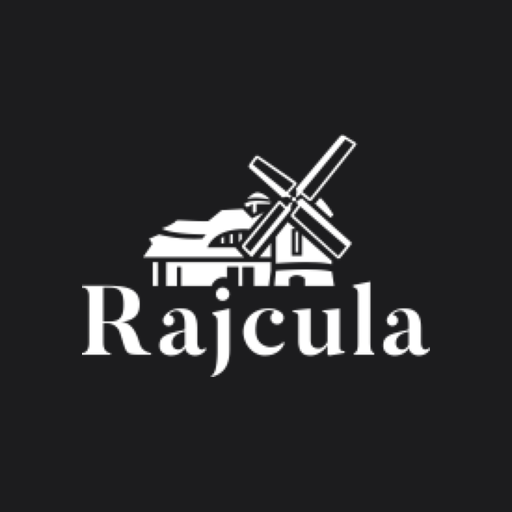
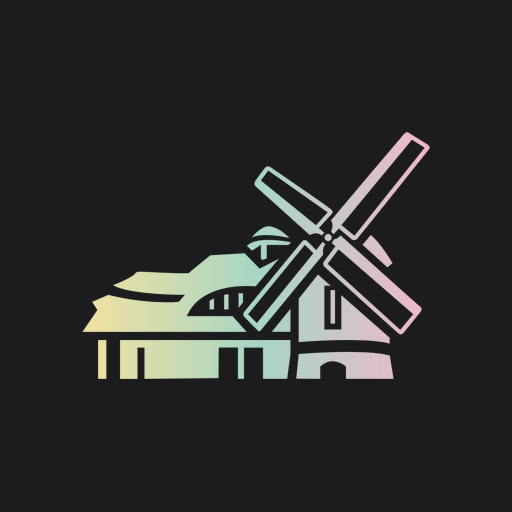
Gradient marki na znaku: ekran glowny + ikona PWA (lemon-mint-blush jak zegar)
- Landing: znak wiatraka w accent-gradient (spojnie z zegarem)
- Ikony PWA 192/512/maskable: gradientowy wiatrak na ciemnym tle (#1C1C1E), maskable z bezpieczna strefa

Changed region(s): [[0.1562, 0.25, 0.8438, 0.75]]

diff --git a/frontend/src/pages/Landing.jsx b/frontend/src/pages/Landing.jsx
@@ -47,7 +47,7 @@ export default function Landing() {
       {/* Sekcja główna: logo Rajcula + zegar + jedyna akcja.
           pt-safe/pb-safe odsuwa treść od notcha iPhone (status bar black-translucent). */}
       <main className="relative z-10 flex flex-1 flex-col items-center justify-center px-6 pb-safe pt-safe text-center">
-        <Logo className="mb-9 h-24 sm:h-28" variant="ink" />
+        <Logo className="mb-9 h-24 sm:h-28" variant="gradient" />
 
         <p className="mb-5 flex items-center gap-2 text-xs font-semibold uppercase tracking-[0.3em] text-muted">
           <span className="h-2 w-2 animate-pulse rounded-full bg-success" />